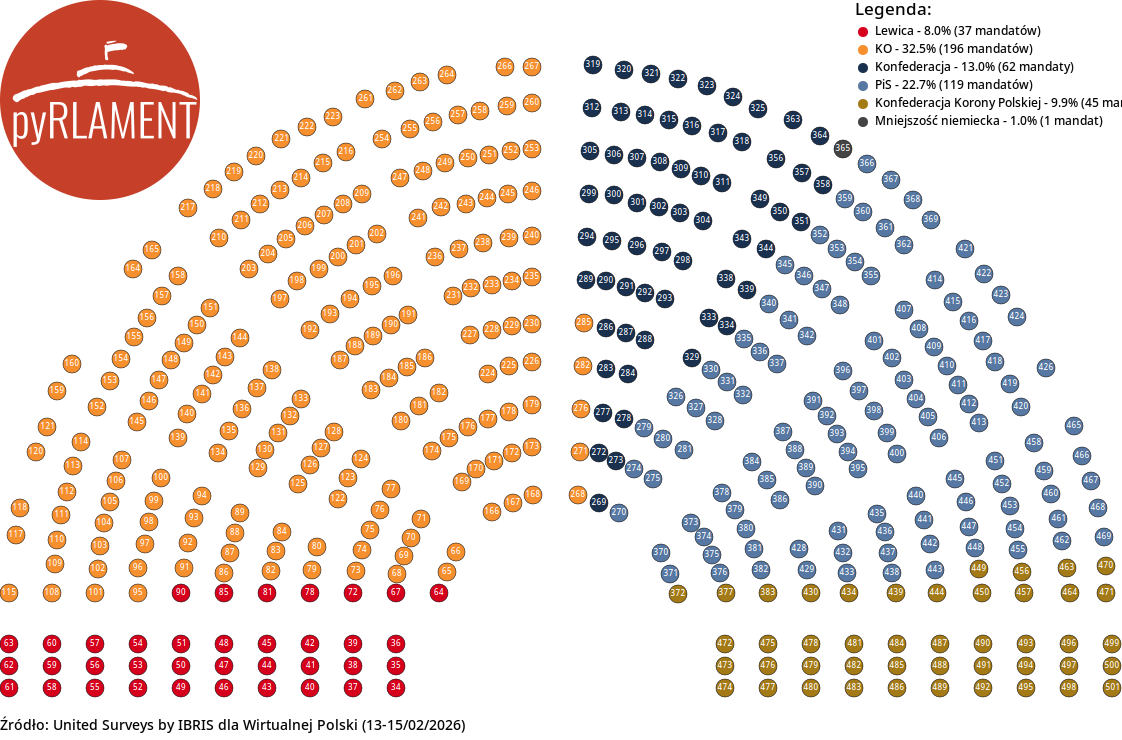
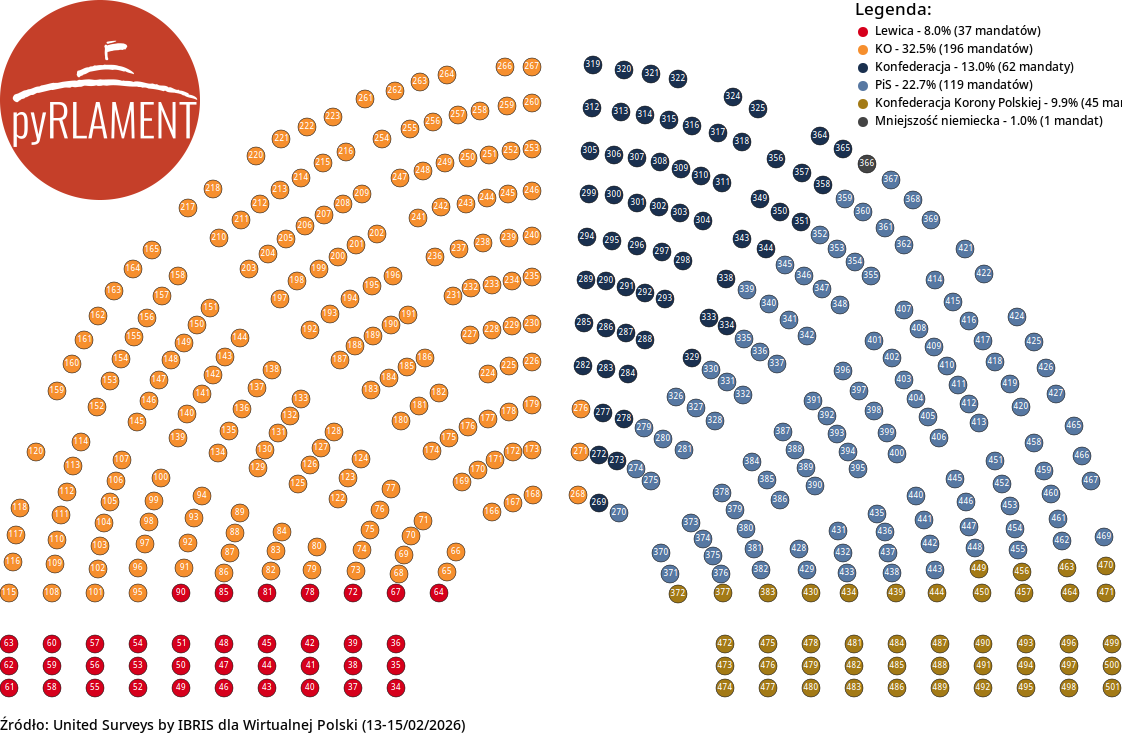
0.5.0 - fixing seats placement

diff --git a/pyrlament/generator.py b/pyrlament/generator.py
@@ -33,11 +33,11 @@ class SeatsGenerator:
         (439, 543, 64),
         (447, 522, 65),
         (456, 502, 66),
-        (396, 543, 67),
-        (397, 524, 68),
-        (404, 506, 69),
-        (411, 488, 70),
-        (421, 469, 71),
+        (396, 543, 67),  #
+        (399, 524, 68),
+        (404, 505, 69),
+        (411, 486, 70),
+        (423, 471, 71),  #
         (353, 543, 72),
         (356, 521, 73),
         (362, 500, 74),
